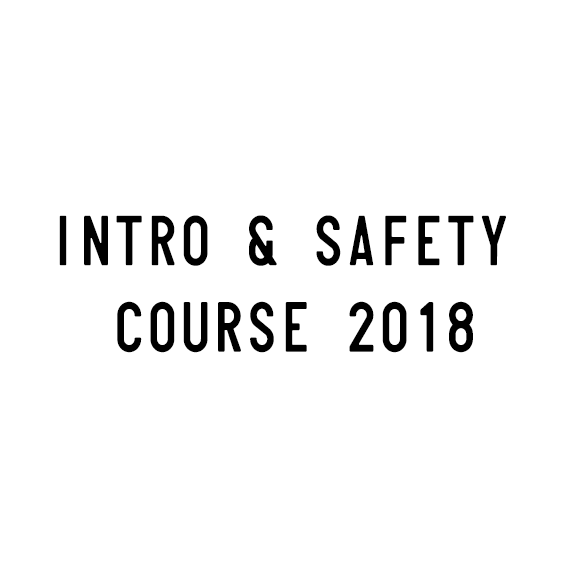
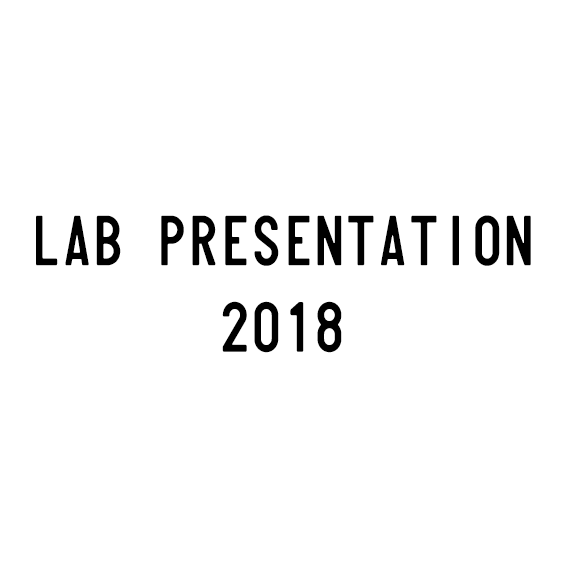
Changed name on images for sign up

Changed region(s): [[0.06, 0.3598, 0.9594, 0.4797], [0.1799, 0.5097, 0.8395, 0.6296]]

diff --git a/signup.html b/signup.html
@@ -74,7 +74,7 @@
                 <div class="col-lg-10 col-lg-offset-1 text-center">
                     <h2>Sign-Up links:</h2>
                     <hr class="small">
-                       <!-- Intro and Safety 2018 -->
+                       <!-- Lab Introduction 2018 -->
                     <div class="row">
                         <div class="col-sm-3"> 
                             <div class="portfolio-item">
@@ -84,10 +84,10 @@
                                 </a>
                             </div>
                         </div>
-                        <!-- Wood Workshop 2018 -->
+                        <!-- Wood Workshop & Safety 2018 -->
                         <div class="col-sm-3">
                             <div class="portfolio-item">
-                                <a href="#">
+                                <a href="https://docs.google.com/spreadsheets/d/1cLKokdIua30npoFGYeWurTCApu9AgyGwcqoOENTvOvg/edit#gid=0">
                                     <img class="img-portfolio img-responsive" src="img/signUp_WoodWorshop.png">
                                 </a>
                             </div>

diff --git a/machineSpec.html b/machineSpec.html
@@ -86,7 +86,7 @@
 <hr>
 <h4 id="flexicam-viper-cnc"><strong>Flexicam Viper CNC</strong></h4>
 
-<p><strong>Filer format:</strong> .dxf .dwg .stl .sldprt .sat/.sab <br>
+<p><strong>Filer format:</strong> .dxf .dwg .sldprt .sat/.sab .iges .stl, <b>Rhino:</b> Parasolid  <br>
 <strong>Work area:</strong> 1000 x 650 x mm <br>
 <strong>Materials:</strong> Wood, MDF/HDF, Plywood, Sika, Foam <br>
 <strong>Software:</strong> Alphacam (get software form Makerlab) </p>
